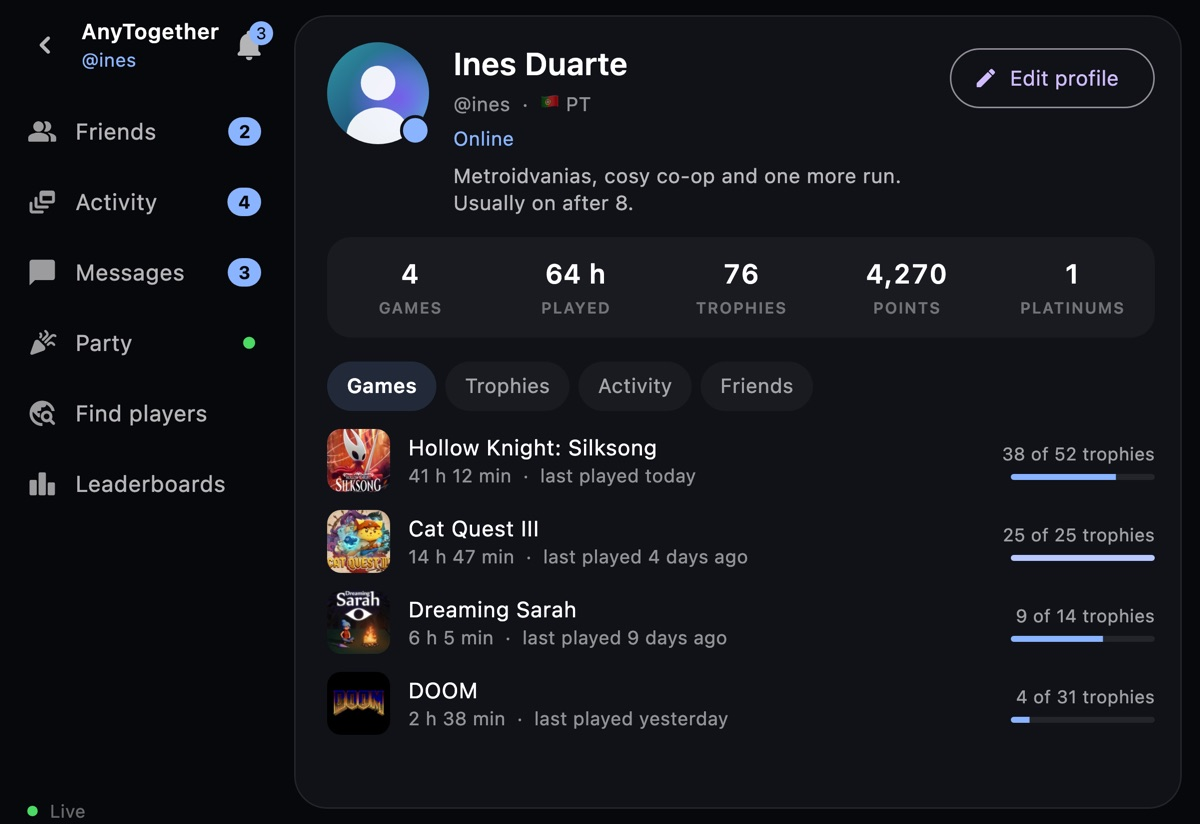
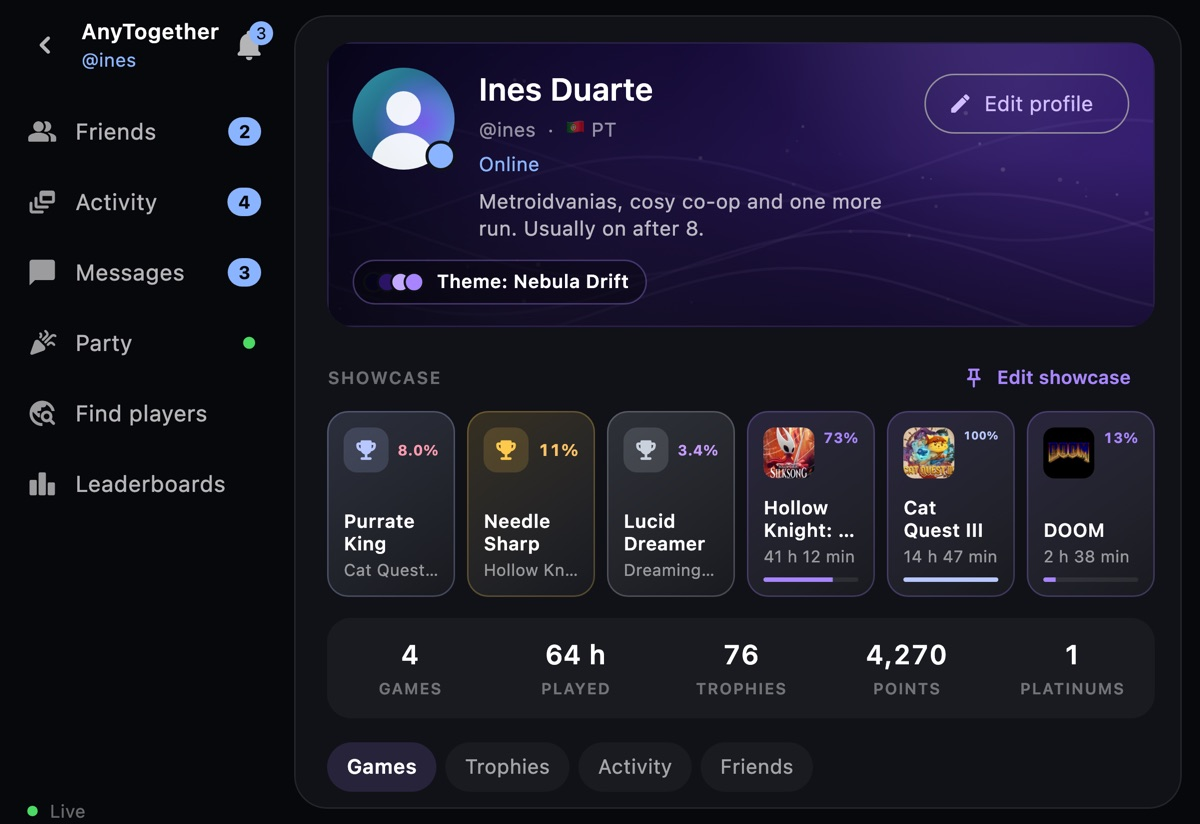
fix(mobile): six showcase tiles in one row with their rarity whole
docs/screenshots/phone-profile.jpg shows the profile wearing a theme.

diff --git a/mobile/lib/ui/profile_look.dart b/mobile/lib/ui/profile_look.dart
@@ -251,7 +251,7 @@ class ShowcaseStrip extends StatelessWidget {
             builder: (context, box) {
               const most = ShowcasePicks.max;
               final fits = (box.maxWidth - gap * (most - 1)) / most;
-              final width = fits < 96 ? 104.0 : fits.clamp(96.0, 160.0);
+              final width = fits < 84 ? 96.0 : fits.clamp(84.0, 160.0);
               final height = 56 + MediaQuery.textScalerOf(context).scale(68);
               final row = Row(
                 children: [
@@ -261,7 +261,7 @@ class ShowcaseStrip extends StatelessWidget {
                   ],
                 ],
               );
-              return fits < 96
+              return fits < 84
                   ? SingleChildScrollView(
                       scrollDirection: Axis.horizontal,
                       child: row,
@@ -338,17 +338,21 @@ class TrophyPinTile extends StatelessWidget {
                   size: 17,
                 ),
               ),
-              const Spacer(),
+              const SizedBox(width: 6),
               if (rarity != null)
-                Flexible(
-                  child: Text(
-                    texts.rarityPercent(rarity),
-                    maxLines: 1,
-                    style: TextStyle(
-                      color: rarityColor(trophy.rarityLabel),
-                      fontSize: 11,
-                      fontWeight: FontWeight.w700,
-                      fontFeatures: const [FontFeature.tabularFigures()],
+                Expanded(
+                  child: FittedBox(
+                    fit: BoxFit.scaleDown,
+                    alignment: Alignment.centerRight,
+                    child: Text(
+                      texts.rarityPercent(rarity),
+                      maxLines: 1,
+                      style: TextStyle(
+                        color: rarityColor(trophy.rarityLabel),
+                        fontSize: 11,
+                        fontWeight: FontWeight.w700,
+                        fontFeatures: const [FontFeature.tabularFigures()],
+                      ),
                     ),
                   ),
                 ),
